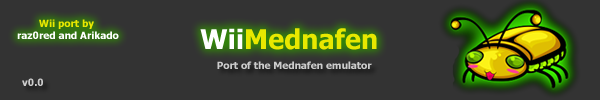
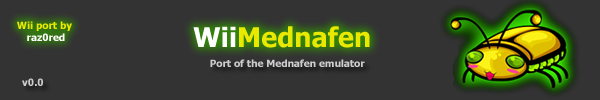
Added ability to coin up Unisystem, flip disk for FDS.

Changed region(s): [[0.3, 0.21, 0.66, 0.54], [0.0, 0.15, 0.21, 0.45], [0.33, 0.6, 0.63, 0.69]]

diff --git a/trunk/src/wii/emulator/nes/NesDbManager.cpp b/trunk/src/wii/emulator/nes/NesDbManager.cpp
@@ -14,72 +14,74 @@
 #define NES_MAP_DOWN    8
 #define NES_MAP_A_R     9
 #define NES_MAP_B_R     10
+#define NES_MAP_SPECIAL 11
 
 const MappableButton NesDbManager::NES_BUTTONS[NES_BUTTON_COUNT] = 
 {
-  { "(none)",   NES_NONE    },
-  { "A",        NES_A       }, 
-  { "B",        NES_B       }, 
-  { "Start",    NES_START   },
-  { "Select",   NES_SELECT  },
-  { "Left",     NES_LEFT    },
-  { "Right",    NES_RIGHT   },
-  { "Up",       NES_UP      },
-  { "Down",     NES_DOWN    },
-  { "A",        NES_A_R     }, 
-  { "B",        NES_B_R     }
+  { "(none)",         NES_NONE    },
+  { "A",              NES_A       }, 
+  { "B",              NES_B       }, 
+  { "Start",          NES_START   },
+  { "Select",         NES_SELECT  },
+  { "Left",           NES_LEFT    },
+  { "Right",          NES_RIGHT   },
+  { "Up",             NES_UP      },
+  { "Down",           NES_DOWN    },
+  { "A",              NES_A_R     }, 
+  { "B",              NES_B_R     },
+  { "Coin/Flip disk", NES_SPECIAL }
 };
 
 const WiiButton NesDbManager::
   WII_BUTTONS[WII_CONTROLLER_COUNT][WII_MAP_BUTTON_COUNT] =
 {
   {
-    { "Plus",   WPAD_BUTTON_PLUS,   NES_MAP_START  },
-    { "Minus",  WPAD_BUTTON_MINUS,  NES_MAP_SELECT },
-    { "2",      WPAD_BUTTON_2,      NES_MAP_A      }, 
-    { "1",      WPAD_BUTTON_1,      NES_MAP_B      },
-    { "A",      WPAD_BUTTON_A,      NES_MAP_NONE   },
-    { "B",      WPAD_BUTTON_B,      NES_MAP_NONE   },
-    { NULL,     0,                  NES_MAP_NONE   },
-    { NULL,     0,                  NES_MAP_NONE   },
-    { NULL,     0,                  NES_MAP_NONE   },
-    { NULL,     0,                  NES_MAP_NONE   }
+    { "Plus",   WPAD_BUTTON_PLUS,   NES_MAP_START   },
+    { "Minus",  WPAD_BUTTON_MINUS,  NES_MAP_SELECT  },
+    { "2",      WPAD_BUTTON_2,      NES_MAP_A       }, 
+    { "1",      WPAD_BUTTON_1,      NES_MAP_B       },
+    { "A",      WPAD_BUTTON_A,      NES_MAP_SPECIAL },
+    { "B",      WPAD_BUTTON_B,      NES_MAP_NONE    },
+    { NULL,     0,                  NES_MAP_NONE    },
+    { NULL,     0,                  NES_MAP_NONE    },
+    { NULL,     0,                  NES_MAP_NONE    },
+    { NULL,     0,                  NES_MAP_NONE    }
   },
   {
-    { "Plus",   WPAD_BUTTON_PLUS,       NES_MAP_START  },
-    { "Minus",  WPAD_BUTTON_MINUS,      NES_MAP_SELECT },
-    { "2",      WPAD_BUTTON_2,          NES_MAP_NONE   }, 
-    { "1",      WPAD_BUTTON_1,          NES_MAP_NONE   },
-    { "A",      WPAD_BUTTON_A,          NES_MAP_A      },
-    { "B",      WPAD_BUTTON_B,          NES_MAP_NONE   },
-    { "C",      WPAD_NUNCHUK_BUTTON_C,  NES_MAP_B      },
-    { "Z",      WPAD_NUNCHUK_BUTTON_Z,  NES_MAP_NONE   },
-    { NULL,     0,                      NES_MAP_NONE   },
-    { NULL,     0,                      NES_MAP_NONE   }
+    { "Plus",   WPAD_BUTTON_PLUS,       NES_MAP_START   },
+    { "Minus",  WPAD_BUTTON_MINUS,      NES_MAP_SELECT  },
+    { "2",      WPAD_BUTTON_2,          NES_MAP_SPECIAL }, 
+    { "1",      WPAD_BUTTON_1,          NES_MAP_SPECIAL },
+    { "A",      WPAD_BUTTON_A,          NES_MAP_A       },
+    { "B",      WPAD_BUTTON_B,          NES_MAP_NONE    },
+    { "C",      WPAD_NUNCHUK_BUTTON_C,  NES_MAP_B       },
+    { "Z",      WPAD_NUNCHUK_BUTTON_Z,  NES_MAP_NONE    },
+    { NULL,     0,                      NES_MAP_NONE    },
+    { NULL,     0,                      NES_MAP_NONE    }
   },
   {
-    { "Plus",   WPAD_CLASSIC_BUTTON_PLUS,     NES_MAP_START  },
-    { "Minus",  WPAD_CLASSIC_BUTTON_MINUS,    NES_MAP_SELECT },
-    { "A",      WPAD_CLASSIC_BUTTON_A,        NES_MAP_A      }, 
-    { "B",      WPAD_CLASSIC_BUTTON_B,        NES_MAP_B      },
-    { "X",      WPAD_CLASSIC_BUTTON_X,        NES_MAP_NONE   },
-    { "Y",      WPAD_CLASSIC_BUTTON_Y,        NES_MAP_NONE   },
-    { "R",      WPAD_CLASSIC_BUTTON_FULL_R,   NES_MAP_NONE   },
-    { "L",      WPAD_CLASSIC_BUTTON_FULL_L,   NES_MAP_NONE   },
-    { "zR",     WPAD_CLASSIC_BUTTON_ZR,       NES_MAP_NONE   },
-    { "zL",     WPAD_CLASSIC_BUTTON_ZL,       NES_MAP_NONE   }
+    { "Plus",   WPAD_CLASSIC_BUTTON_PLUS,     NES_MAP_START   },
+    { "Minus",  WPAD_CLASSIC_BUTTON_MINUS,    NES_MAP_SELECT  },
+    { "A",      WPAD_CLASSIC_BUTTON_A,        NES_MAP_A       }, 
+    { "B",      WPAD_CLASSIC_BUTTON_B,        NES_MAP_B       },
+    { "X",      WPAD_CLASSIC_BUTTON_X,        NES_MAP_NONE    },
+    { "Y",      WPAD_CLASSIC_BUTTON_Y,        NES_MAP_NONE    },
+    { "R",      WPAD_CLASSIC_BUTTON_FULL_R,   NES_MAP_SPECIAL },
+    { "L",      WPAD_CLASSIC_BUTTON_FULL_L,   NES_MAP_SPECIAL },
+    { "zR",     WPAD_CLASSIC_BUTTON_ZR,       NES_MAP_SPECIAL },
+    { "zL",     WPAD_CLASSIC_BUTTON_ZL,       NES_MAP_SPECIAL }
   },
   {
-    { "Start",  PAD_BUTTON_START,             NES_MAP_START  },
-    { "A",      PAD_BUTTON_A,                 NES_MAP_A      },
-    { "B",      PAD_BUTTON_B,                 NES_MAP_B      }, 
-    { "X",      PAD_BUTTON_X,                 NES_MAP_SELECT },
-    { "Y",      PAD_BUTTON_Y,                 NES_MAP_SELECT },
-    { "R",      PAD_TRIGGER_R,                NES_MAP_NONE   },
-    { "L",      PAD_TRIGGER_L,                NES_MAP_NONE   },
-    { NULL,     0,                            NES_MAP_NONE   },
-    { NULL,     0,                            NES_MAP_NONE   },
-    { NULL,     0,                            NES_MAP_NONE   },
+    { "Start",  PAD_BUTTON_START,             NES_MAP_START   },
+    { "A",      PAD_BUTTON_A,                 NES_MAP_A       },
+    { "B",      PAD_BUTTON_B,                 NES_MAP_B       }, 
+    { "X",      PAD_BUTTON_X,                 NES_MAP_SELECT  },
+    { "Y",      PAD_BUTTON_Y,                 NES_MAP_SELECT  },
+    { "R",      PAD_TRIGGER_R,                NES_MAP_SPECIAL },
+    { "L",      PAD_TRIGGER_L,                NES_MAP_SPECIAL },
+    { NULL,     0,                            NES_MAP_NONE    },
+    { NULL,     0,                            NES_MAP_NONE    },
+    { NULL,     0,                            NES_MAP_NONE    }
   }
 };
 

diff --git a/trunk/src/wii/emulator/nes/NesEmu.cpp b/trunk/src/wii/emulator/nes/NesEmu.cpp
@@ -8,6 +8,11 @@
 #include "wii_mednafen.h"
 #include "wii_mednafen_main.h"
 
+#ifdef WII_NETTRACE
+#include <network.h>
+#include "net_print.h"  
+#endif
+
 Nes::Nes() : 
   Emulator( "nes", "NES" ),
   m_configManager( *this ),
@@ -40,10 +45,36 @@ MenuManager& Nes::getMenuManager()
   return m_menuManager;
 }
 
+extern bool NESIsVSUni;
+extern void MDFN_VSUniCoin();
+extern MDFNGI *MDFNGameInfo;
+extern int FDS_DiskInsert(int oride);
+extern int FDS_DiskEject(void);
+extern int FDS_DiskSelect(void);
+
+static int flipdisk = 0;
+
 void Nes::updateControls( bool isRapid )
 {
   WPAD_ScanPads();
   PAD_ScanPads();
+
+  if( flipdisk )
+  {
+    switch( flipdisk )
+    {
+      case 30:
+        FDS_DiskEject();
+        break;
+      case 20:
+        FDS_DiskSelect();
+        break;
+      case 10:
+	FDS_DiskInsert(-1);
+        break;
+    }
+    flipdisk--;
+  }
 
   for( int c = 0; c < 4; c++ )
   {
@@ -113,9 +144,20 @@ void Nes::updateControls( bool isRapid )
                 WII_CONTROLLER_CUBE ][ i ] ) )
       {
         u32 val = NesDbManager::NES_BUTTONS[ i ].button;
-        if( !( val & BTN_RAPID ) || isRapid )
+        if( val & NES_SPECIAL )
         {
-          result |= ( val & 0xFFFF );
+          if( NESIsVSUni )
+          {
+            MDFN_VSUniCoin();
+          }
+          else if( MDFNGameInfo->GameType == GMT_DISK && !flipdisk )
+          {
+            flipdisk = 30;
+          }
+        }
+        else if( !( val & BTN_RAPID ) || isRapid )
+        {
+          result |= ( val & 0xFFFF );          
         }
       }  
     }    
@@ -146,6 +188,7 @@ void Nes::updateControls( bool isRapid )
 
 void Nes::onPostLoad()
 {
+  flipdisk = 0;
 }
 
 bool Nes::updateDebugText( 

diff --git a/trunk/src/wii/emulator/nes/Nes.h b/trunk/src/wii/emulator/nes/Nes.h
@@ -9,17 +9,18 @@
 #include "NesMenuManager.h"
 
 // NES Keys
-#define NES_NONE   0x0000
-#define NES_A      0x0001
-#define NES_B      0x0002
-#define NES_START  0x0008
-#define NES_SELECT 0x0004
-#define NES_RIGHT  0x0080
-#define NES_LEFT   0x0040
-#define NES_UP     0x0010
-#define NES_DOWN   0x0020
-#define NES_A_R    0x0001 | BTN_RAPID
-#define NES_B_R    0x0002 | BTN_RAPID
+#define NES_NONE    0x0000
+#define NES_A       0x0001
+#define NES_B       0x0002
+#define NES_START   0x0008
+#define NES_SELECT  0x0004
+#define NES_RIGHT   0x0080
+#define NES_LEFT    0x0040
+#define NES_UP      0x0010
+#define NES_DOWN    0x0020
+#define NES_A_R     0x0001 | BTN_RAPID
+#define NES_B_R     0x0002 | BTN_RAPID
+#define NES_SPECIAL 0x40000000
 
 class Nes : public Emulator
 {

diff --git a/trunk/src/wii/wii_app_common.h b/trunk/src/wii/wii_app_common.h
@@ -1,8 +1,7 @@
 /*
 WiiMednafen : Wii port of the Mednafen emulator
 
-Copyright (C) 2011
-raz0red and Arikado
+Copyright (C) 2011 raz0red
 
 This software is provided 'as-is', without any express or implied
 warranty.  In no event will the authors be held liable for any

diff --git a/trunk/src/wii/wii_mednafen.cpp b/trunk/src/wii/wii_mednafen.cpp
@@ -1,8 +1,7 @@
 /*
 WiiMednafen : Wii port of the Mednafen emulator
 
-Copyright (C) 2011
-raz0red and Arikado
+Copyright (C) 2011 raz0red
 
 This software is provided 'as-is', without any express or implied
 warranty.  In no event will the authors be held liable for any

diff --git a/trunk/src/wii/wii_mednafen.h b/trunk/src/wii/wii_mednafen.h
@@ -1,8 +1,7 @@
 /*
 WiiMednafen : Wii port of the Mednafen emulator
 
-Copyright (C) 2011
-raz0red and Arikado
+Copyright (C) 2011 raz0red
 
 This software is provided 'as-is', without any express or implied
 warranty.  In no event will the authors be held liable for any

diff --git a/trunk/src/wii/wii_mednafen_config.cpp b/trunk/src/wii/wii_mednafen_config.cpp
@@ -1,8 +1,7 @@
 /*
 WiiMednafen : Wii port of the Mednafen emulator
 
-Copyright (C) 2011
-raz0red and Arikado
+Copyright (C) 2011 raz0red
 
 This software is provided 'as-is', without any express or implied
 warranty.  In no event will the authors be held liable for any

diff --git a/trunk/src/wii/wii_mednafen_emulation.cpp b/trunk/src/wii/wii_mednafen_emulation.cpp
@@ -1,8 +1,7 @@
 /*
 WiiMednafen : Wii port of the Mednafen emulator
 
-Copyright (C) 2011
-raz0red and Arikado
+Copyright (C) 2011 raz0red
 
 This software is provided 'as-is', without any express or implied
 warranty.  In no event will the authors be held liable for any

diff --git a/trunk/src/wii/wii_mednafen_emulation.h b/trunk/src/wii/wii_mednafen_emulation.h
@@ -1,8 +1,7 @@
 /*
 WiiMednafen : Wii port of the Mednafen emulator
 
-Copyright (C) 2011
-raz0red and Arikado
+Copyright (C) 2011 raz0red
 
 This software is provided 'as-is', without any express or implied
 warranty.  In no event will the authors be held liable for any

diff --git a/trunk/src/wii/wii_mednafen_main.cpp b/trunk/src/wii/wii_mednafen_main.cpp
@@ -1,8 +1,7 @@
 /*
 WiiMednafen : Wii port of the Mednafen emulator
 
-Copyright (C) 2011
-raz0red and Arikado
+Copyright (C) 2011 raz0red
 
 This software is provided 'as-is', without any express or implied
 warranty.  In no event will the authors be held liable for any

diff --git a/trunk/src/wii/wii_mednafen_main.h b/trunk/src/wii/wii_mednafen_main.h
@@ -1,8 +1,7 @@
 /*
 WiiMednafen : Wii port of the Mednafen emulator
 
-Copyright (C) 2011
-raz0red and Arikado
+Copyright (C) 2011 raz0red
 
 This software is provided 'as-is', without any express or implied
 warranty.  In no event will the authors be held liable for any

diff --git a/trunk/src/wii/wii_mednafen_menu.h b/trunk/src/wii/wii_mednafen_menu.h
@@ -1,8 +1,7 @@
 /*
 WiiMednafen : Wii port of the Mednafen emulator
 
-Copyright (C) 2011
-raz0red and Arikado
+Copyright (C) 2011 raz0red
 
 This software is provided 'as-is', without any express or implied
 warranty.  In no event will the authors be held liable for any
